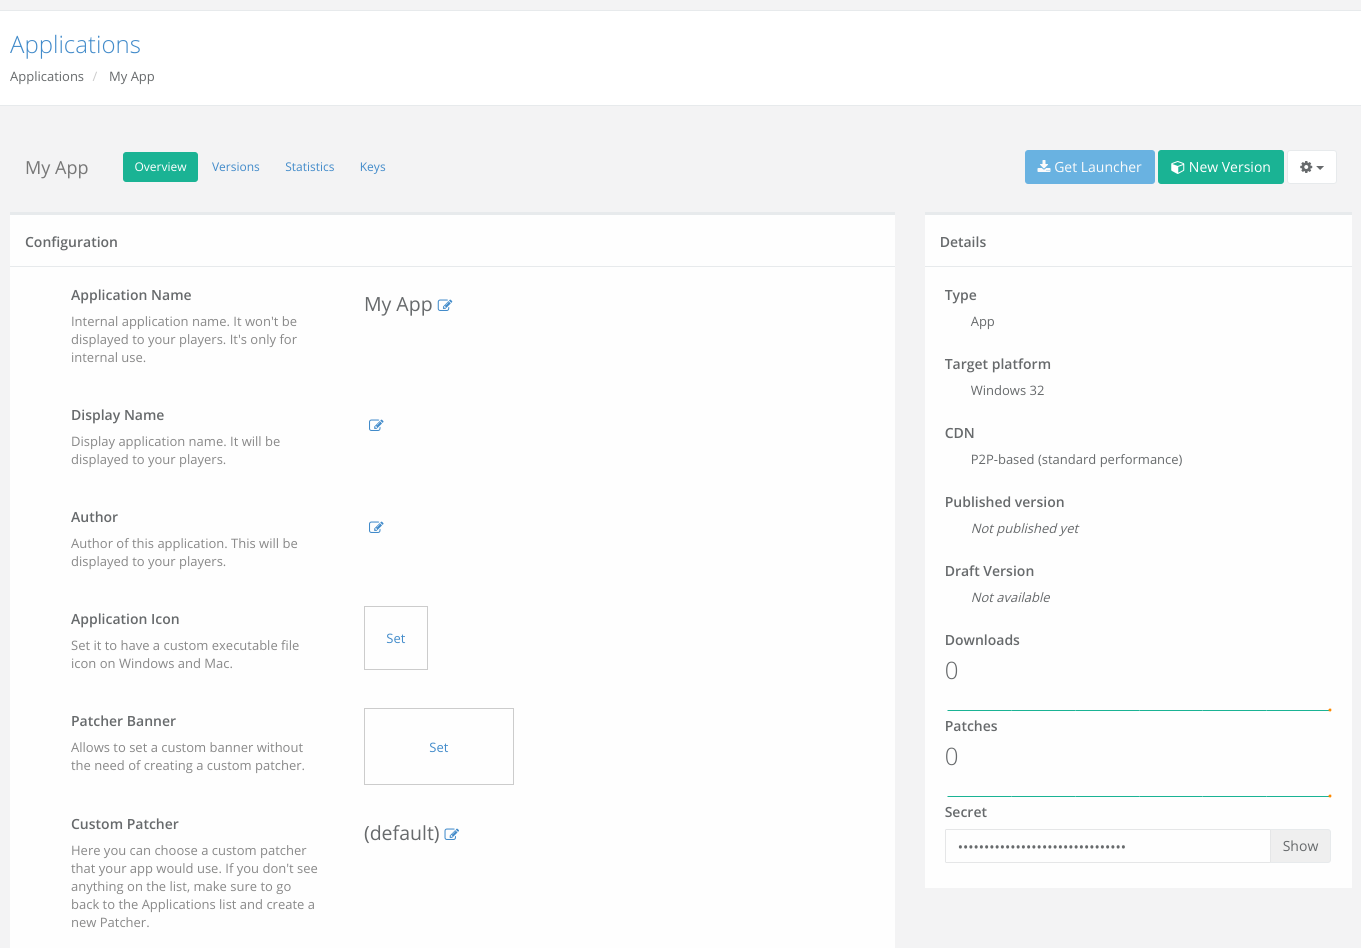
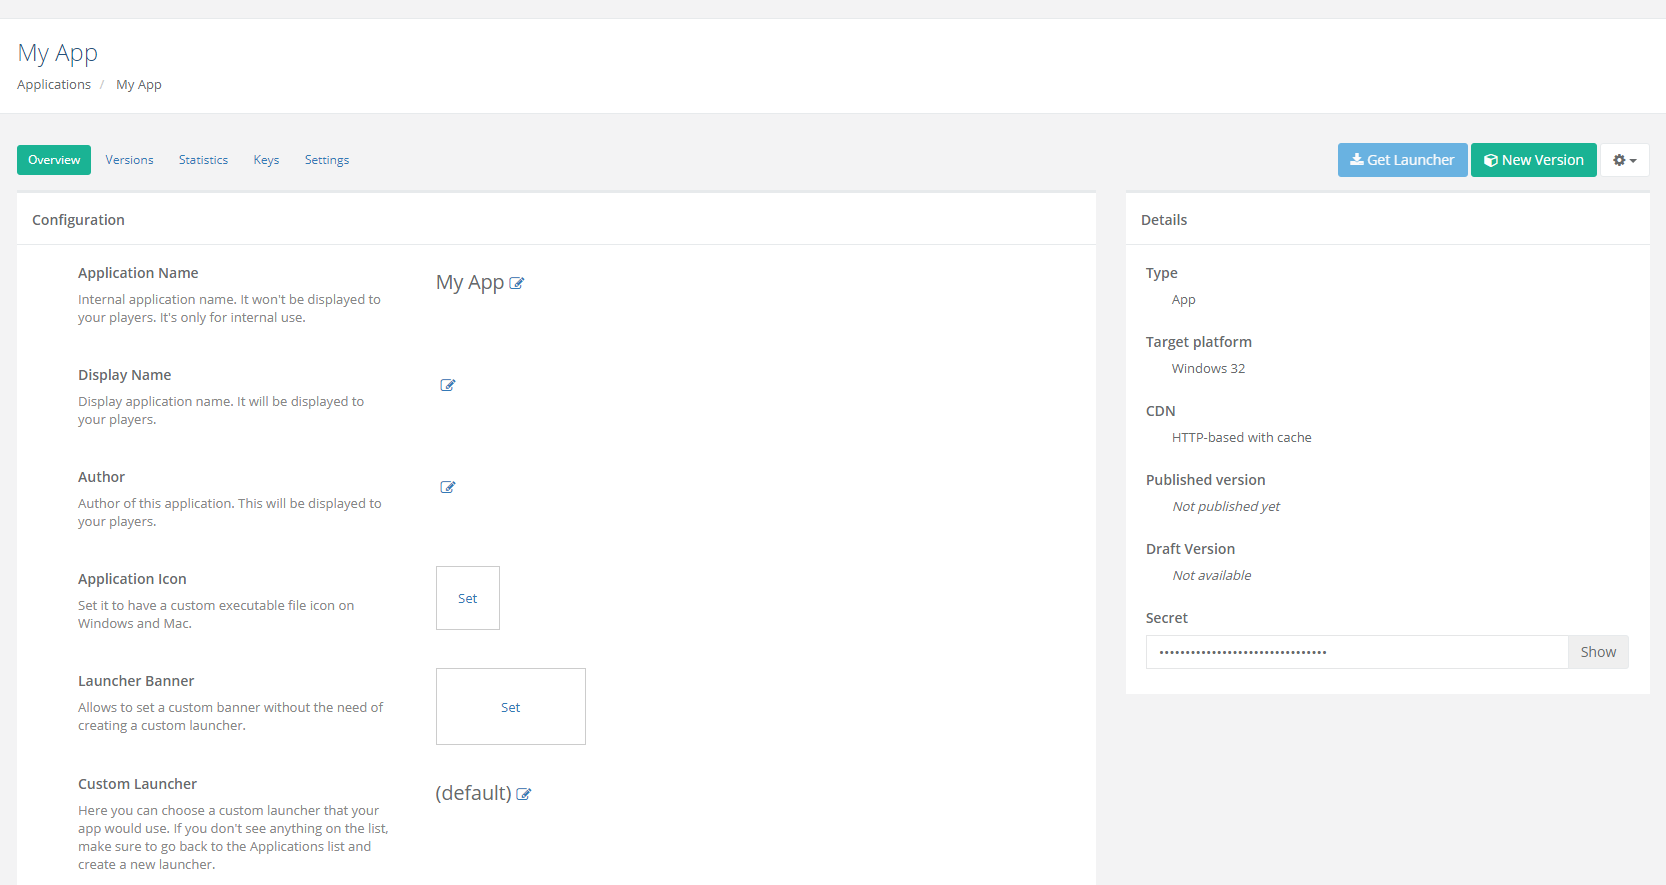
Updated

diff --git a/troubleshooting_installation_issues.html b/troubleshooting_installation_issues.html
@@ -129,7 +129,7 @@
 
 <h3 id="possible-reason-isp-hardware-issues">Possible Reason: ISP Hardware Issues</h3>
 
-<p>You should ask your user to check the Internet connection quality first. Speed tests are useful, but some ISPs are configuring separate routing rules to popular speed tests sites so that the results can be better than usual.</p>
+<p>You should ask your user to check the Internet connection quality first. Speed tests are useful, but some ISPs are configuring separate routing rules to popular speed test sites so that the results can be better than usual.</p>
 
 <ul>
   <li>Ask the user to visit http://benchmark.patchkit.net/. See if results to their nearby servers are looking good.</li>
@@ -156,7 +156,7 @@
 
 <ul>
   <li>Ask the user to try installing the application on another machine or operating system if possible</li>
-  <li>Ask the user to perform anti-virus scan and anti-malware scan. We recommend <a href="https://www.malwarebytes.com/mwb-download/">Malwarebytes</a> scanning software.</li>
+  <li>Ask the user to perform an anti-virus scan and anti-malware scan. We recommend <a href="https://www.malwarebytes.com/mwb-download/">Malwarebytes</a> scanning software.</li>
   <li>Ask the user to disable the anti-virus during the downloading procedure.</li>
 </ul>
 
@@ -168,18 +168,18 @@
 
 <ul>
   <li>…on home PC, we suggest disabling the firewall.</li>
-  <li>…at workplace, we suggest contacting the administrator.</li>
+  <li>…at the workplace, we suggest contacting the administrator.</li>
   <li>…at school, we suggest contacting the teacher or the administrator.</li>
 </ul>
 
 <h3 id="nothing-helps">Nothing Helps?</h3>
 
-<p>When the user had tried everything but the issue is still there:</p>
+<p>When the user had tried everything, but the issue is still there:</p>
 
 <ol>
   <li>Ask for launcher-log.txt and output_log.txt files. <a href="/debugging_patcher.html">Check here</a> where to find those.</li>
   <li>Ask the user to visit <a href="http://benchmark.patchkit.net">http://benchmark.patchkit.net</a> and share the results using the share link.</li>
-  <li><a href="mailto:support@patchkit.net">Contact PatchKit’s support</a> by email providing all files mentioned  above, along with your PatchKit’s account e-mail address and application’s name.</li>
+  <li><a href="mailto:support@patchkit.net">Contact PatchKit’s support</a> by e-mail providing all files mentioned above, along with your PatchKit’s account e-mail address and application’s name.</li>
 </ol>
 
 <h2 id="installation--patching-issues">Installation / Patching Issues</h2>
@@ -219,14 +219,14 @@
 
 <ol>
   <li>Navigate to https://panel.patchkit.net.</li>
-  <li>Log in into your account if needed.</li>
+  <li>Log in to your account if needed.</li>
   <li>Navigate to your application’s latest published version.</li>
   <li>See if the <em>Executable File</em> is set correctly.</li>
 </ol>
 
 <h3 id="possible-reason-missing-application-files">Possible Reason: Missing Application Files</h3>
 
-<p>While Patcher is making sure that all provided files are installed in the system, sometimes the application package may be incomplete. The usual reason is a human mistake during the packaging process. Make sure to:</p>
+<p>While the launcher is making sure that all provided files are installed in the system, sometimes the application package may be incomplete. The usual reason is human mistake during the packaging process. Make sure to:</p>
 
 <ul>
   <li>Zip the whole folder with the application. It’s OK to have one directory on the top-level, and application executable in that directory.</li>
@@ -239,11 +239,11 @@
 
 <h3 id="possible-reason-malicious-software-1">Possible Reason: Malicious Software</h3>
 
-<p>Because of the variety of this kind of applications, there’s a possibility that there’s an interference. Ask the user to scan the system. We recommend <a href="https://www.malwarebytes.com/mwb-download/">Malwarebytes</a> scanner.</p>
+<p>Because of the variety of this kind of application, there’s a possibility that there’s an interference. Ask the user to scan the system. We recommend <a href="https://www.malwarebytes.com/mwb-download/">Malwarebytes</a> scanner.</p>
 
 <h3 id="nothing-helps-2">Nothing helps?</h3>
 
-<p>There may be a plenty of reasons why your application may not be working correctly. If you’re out of options, try looking for any error messages and search it on the web. You can always <a href="/contact.html">contact</a> our support for the advice.</p>
+<p>There may be plenty of reasons why your application may not be working correctly. If you’re out of options, try looking for any error messages and search it on the web. You can always <a href="/contact.html">contact</a> our support for the advice.</p>
 
 
     </div>

diff --git a/additional_features.html b/additional_features.html
@@ -114,7 +114,7 @@
 
 <p>Allows you to download, customize in any way you need and upload a custom launcher for your applications.</p>
 
-<p>You may read more about how to setup custom patcher on <a href="/unity_custom_patcher.html">Custom Launcher</a> documentation page.</p>
+<p>You may read more about how to setup custom launcher on <a href="/unity_custom_patcher.html">Custom Launcher</a> documentation page.</p>
 
 <h2 id="channels">Channels</h2>
 

diff --git a/unity_custom_patcher.html b/unity_custom_patcher.html
@@ -176,7 +176,7 @@ If you already have a Unity version installed via Unity Hub, simply use it to do
 <h2 id="community-resources">Community resources</h2>
 
 <ul>
-  <li><a href="https://www.youtube.com/watch?v=tzOrMT95c70">PatchKit Tutorial: Making a Patcher on MacOSX</a></li>
+  <li><a href="https://www.youtube.com/watch?v=tzOrMT95c70">PatchKit Tutorial: Making a Launcher on MacOSX</a></li>
 </ul>
 
 <h2 id="troubleshooting">Troubleshooting</h2>

diff --git a/getting_started.html b/getting_started.html
@@ -134,8 +134,8 @@
   <li>Change the application display name</li>
   <li>Change the application author</li>
   <li>Set the application icon (useful for Windows and OSX distributions)</li>
-  <li>Set the patcher banner</li>
-  <li>Set the Custom Patcher*</li>
+  <li>Set the launcher banner</li>
+  <li>Set the Custom Launcher*</li>
   <li>Set the Compression method*</li>
 </ul>
 
